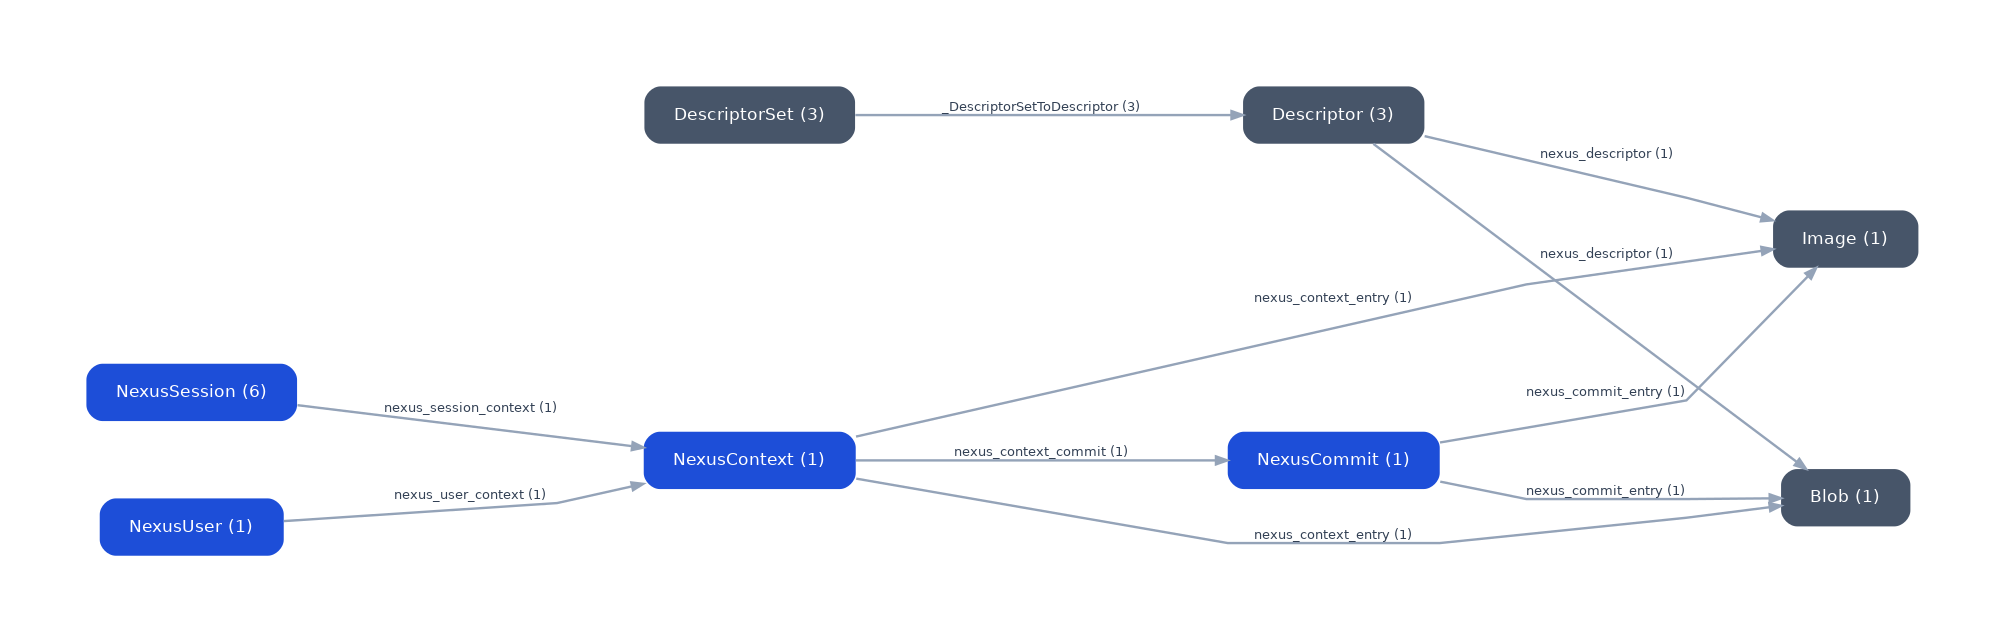
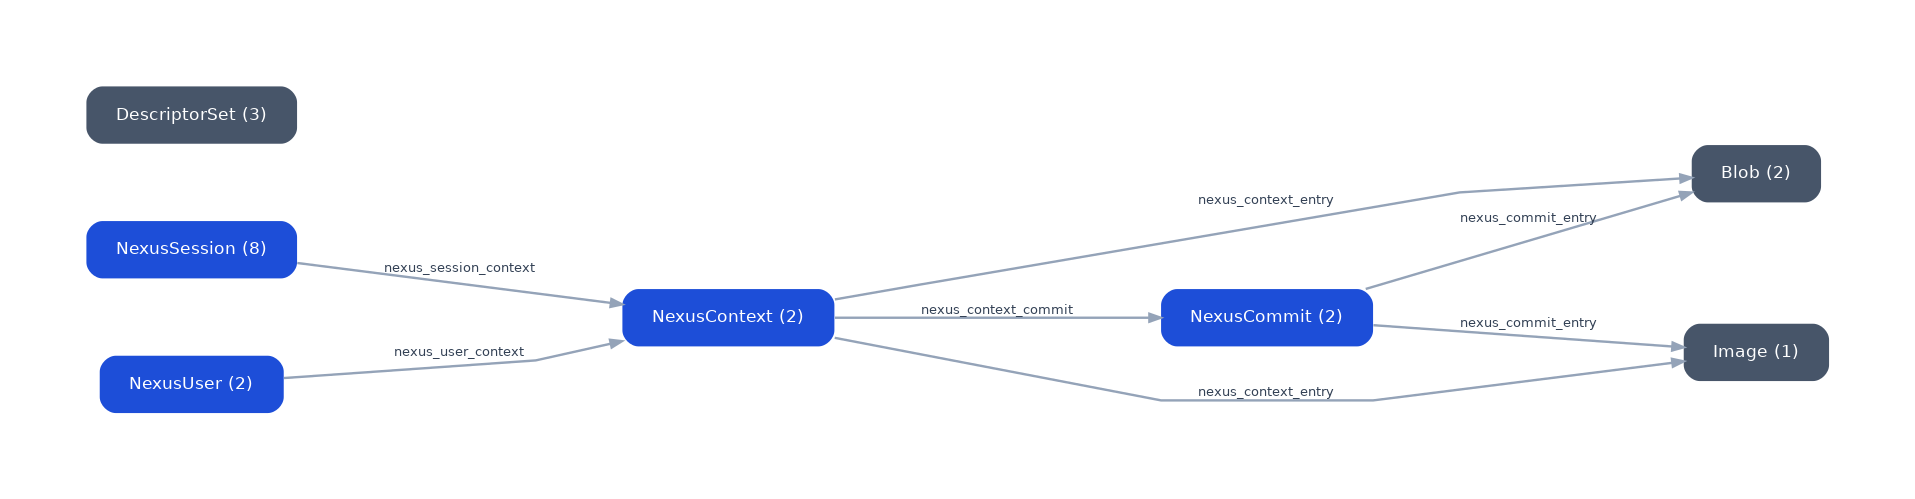
Regenerate schema PNG and embed in concepts doc
Regenerated demo/nexus_schema.png against the live DB after NexusCommit
graph connections were implemented â now shows all 7 edges including
nexus_user_context, nexus_context_commit, nexus_commit_entry, and
nexus_context_entry for both Blob and Image. Edge labels stripped of
instance counts so the diagram is stable across runs.

Added the schema diagram to docs/concepts.md under the storage mapping
table for visual reference.

diff --git a/docs/concepts.md b/docs/concepts.md
@@ -311,6 +311,12 @@ reference on these primitives.
 | Pre-computed embedding | `Descriptor` directly | Model recorded as property |
 | MemoryTask | `Entity` (`NexusMemoryTask`) | Async status tracking |
 
+The graph below shows the schema as it appears in ApertureDB after a
+commit — blue nodes are aperture-nexus entities, slate nodes are
+ApertureDB native storage primitives:
+
+![aperture-nexus ApertureDB schema graph](../demo/nexus_schema.png)
+
 ### DescriptorSets
 
 ApertureDB requires a **DescriptorSet** before any vectors can be
